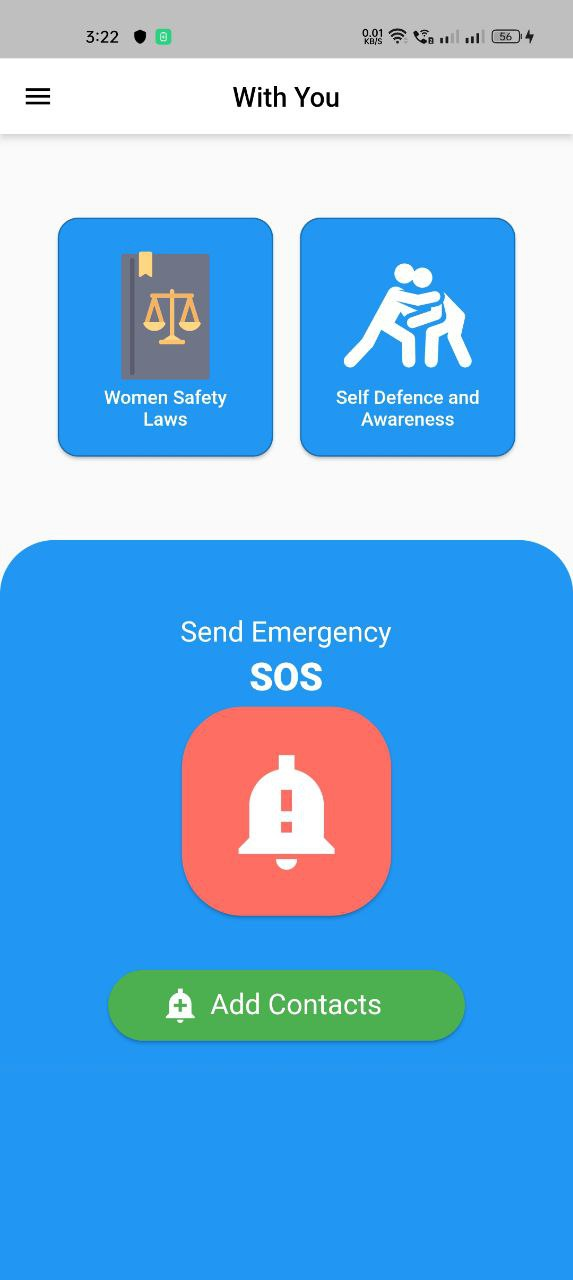
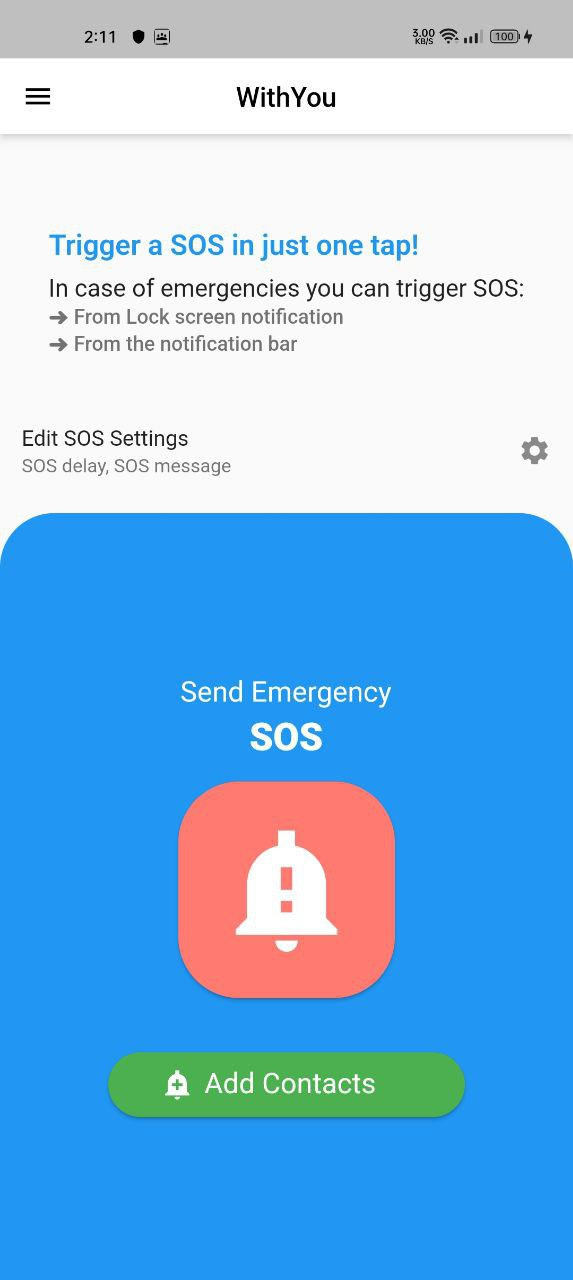
docs: update Readme.md and add updated screenshots

diff --git a/README.md b/README.md
@@ -10,12 +10,14 @@ Currently this app is compatible with Android only.
 
 ### Find it on
 <a href="https://play.google.com/store/apps/details?id=com.ashuvssut.women_safety_app">
-<img alt="Get it on Google Play" height="80"        src="https://lh3.googleusercontent.com/q1k2l5CwMV31JdDXcpN4Ey7O43PxnjAuZBTmcHEwQxVuv_2wCE2gAAQMWxwNUC2FYEOnYgFPOpw6kmHJWuEGeIBLTj9CuxcOEeU8UXyzWJq4NJM3lg=s0" />
+<img alt="Get it on Google Play" height="80" src="https://lh3.googleusercontent.com/q1k2l5CwMV31JdDXcpN4Ey7O43PxnjAuZBTmcHEwQxVuv_2wCE2gAAQMWxwNUC2FYEOnYgFPOpw6kmHJWuEGeIBLTj9CuxcOEeU8UXyzWJq4NJM3lg=s0" />
 </a>
 <details>
 <summary>hazukashidana🙂</summary>
-<br>
-It's a hackathon project. It may look crappy. But `dev` branch has some W.I.P code that will make the app look awesome.
+<br/>
+It's a hackathon project. This app may not have a very beautiful UI but I gave it my best shot. 
+I gave flutter a try for the first time and it was a great experience. I learned a lot of new things and I am really happy with the result.
+(PS- I am a React Native developer to the core. I was just curious to try flutter.)
 </details>
 
 ### Screenshots
@@ -50,13 +52,13 @@ It's a hackathon project. It may look crappy. But `dev` branch has some W.I.P co
 
 
 
-## Development in Progress...
+## Development Plans
 
-- Release v0.1-alpha is all ready to use (SOS featue works fine). Articles screen and Video Library screens are not implemented. 
+- Current Release v1.0.0 is all ready to use (SOS featue works fine). It has a new polished UI and added major improvements in User Experience.
 
-- Release v0.2-alpha will bring on improvements and add those pending screens. (see Projects tab) 
+- Release v2.0.0 will bring on improvements and add Articles screen and Video Library screens (to be implemented). (see Projects tab) 
 
-- Contributions via PRs are appreaciated
+- Contributions via PRs are appreciated
 
 ## Project Explanation
 
@@ -65,9 +67,9 @@ We have created an app which includes the following
    - has navigations to other two screens.
    - has our main SOS feature (sending location sms to added trusted contacts)
 
-2. Youtube video fetching screen ( fetches self defence and safety awareness videos using YouTube Data API v3)
+2. (Pending) Youtube video fetching screen ( fetches self defence and safety awareness videos using YouTube Data API v3)
 
-3. Make screen/s showing all about IPC 1860 for women. It would e like an awareness documentation like stuff.
+3. (Pending) Make screen/s showing all about IPC 1860 for women. It would like an awareness documentation stuff.
 
 <!-- ## Getting Started
 
